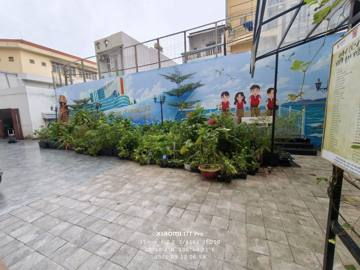
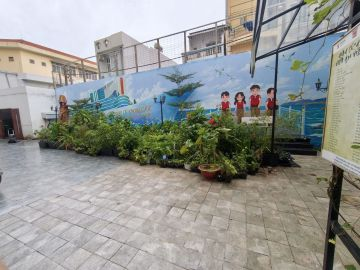
feat(gia-vien): dùng bố cục tháng 9, xoá ảnh có người, xoá dấu GPS khỏi ảnh, thêm cây tạm và nhiệm vụ
- Xoá IMG_2822.jpg (có người)
- Thư viện 11 khung và 6 trạm 2.5D dựng lại từ ảnh 12/09, 26/09 và video 30/09
- Xoá chữ dấu giờ/toạ độ GPS in chìm khỏi ảnh 3D
- Cây tạm: Sả, Sắn dây, Bạc hà, Nhóm gừng/riềng, Lưỡi hổ

Claude-Session: https://claude.ai/code/session_01QVwHjGqCf2pAUrmVus3yVm

diff --git a/public/gia-vien-duoc-thao-preview/index.html b/public/gia-vien-duoc-thao-preview/index.html
@@ -152,7 +152,7 @@ button,input,select{font:inherit}
 
     <div class="card">
       <h3>Luồng chơi đã hoàn thiện</h3>
-      <p>1) Quan sát 11 khung ảnh thật → 2) vào tuyến 10 trạm thực cảnh → 3) di chuyển theo lối đi → 4) đổi góc nhìn → 5) chạm hotspot → 6) làm nhiệm vụ định danh tạm.</p>
+      <p>1) Quan sát 11 khung ảnh thật → 2) vào tuyến 6 trạm thực cảnh → 3) di chuyển theo lối đi → 4) đổi góc nhìn → 5) chạm hotspot → 6) làm nhiệm vụ định danh tạm.</p>
       <div class="legend">
         <span><i class="dot" style="background:#d8b16c"></i>hotspot cây</span>
         <span><i class="dot" style="background:#7ccaf2"></i>vị trí người học</span>
@@ -279,69 +279,63 @@ button,input,select{font:inherit}
 
 <script>
 const photos=[
-  {id:'p-entry-main',src:'/gia-vien-duoc-thao-preview/assets/IMG_2750.jpg',title:'Góc chính diện cổng vườn',desc:'Toàn cảnh không có người: khung mái, bảng Gia Viên Dược Thảo, cụm chậu trung tâm và lối vào.',tags:['Toàn cảnh','Cổng vào','Khung mái','Bảng tên']},
-  {id:'p-right-rack',src:'/gia-vien-duoc-thao-preview/assets/IMG_2837.jpg',title:'Giá cây tường phải',desc:'Góc dọc không có người, thấy rõ giá cây nhiều tầng, chậu treo và bồn cây dưới đất.',tags:['Giá cây phải','Chậu treo','Lối đi','Mái trong']},
-  {id:'p-right-close',src:'/gia-vien-duoc-thao-preview/assets/IMG_2839.jpg',title:'Cận cảnh nhóm cây có nhãn',desc:'Cận cảnh cụm cây ở giá phải và bồn thấp; dùng làm chuẩn cho hotspot, QR và số thứ tự sau này.',tags:['Cận cảnh','Nhãn cây','Bồn thấp','Hotspot']},
-  {id:'p-narrow-lane',src:'/gia-vien-duoc-thao-preview/assets/20260517_063920.jpg',title:'Lối hẹp giữa hai cụm cây',desc:'Góc nhìn vào lối hẹp, cho thấy mật độ cây thật, bồn đen hai bên và trụ đèn ở giữa.',tags:['Lối hẹp','Mật độ cây','Bồn đen','Trụ đèn']},
-  {id:'p-hanging-qr',src:'/gia-vien-duoc-thao-preview/assets/20260517_064000.jpg',title:'Cụm chậu treo + QR',desc:'Góc cận không có người với chậu treo trắng, mã QR và cụm cây tầng thấp.',tags:['Chậu treo','QR','Cận cảnh','Tường tranh']},
-  {id:'p-end-wall',src:'/gia-vien-duoc-thao-preview/assets/20260517_064533.jpg',title:'Góc cuối vườn và tường tranh',desc:'Góc rộng không có người ở phần cuối vườn, thấy rõ nền gạch, tường tranh, khung mái và bảng danh sách.',tags:['Cuối vườn','Tường tranh','Nền gạch','Bảng danh sách']},
-  {id:'p-service-lane',src:'/gia-vien-duoc-thao-preview/assets/IMG20260606141242.jpg',title:'Lối phụ sát tường và bồn cây',desc:'Góc nhìn dọc lối phụ hẹp, cho thấy mép bồn, thảm cỏ nhân tạo và khoảng cách thật giữa cây với tường.',tags:['Lối phụ','Tỉ lệ thực','Bồn cây','Khoảng cách']},
-  {id:'p-sign-close',src:'/gia-vien-duoc-thao-preview/assets/IMG_2809.jpg',title:'Cận bảng Gia Viên Dược Thảo',desc:'Ảnh thật không có người, nhìn rõ bảng tên, mảng tường tranh và hệ chậu cây phía dưới.',tags:['Bảng tên','Mảng cây','Tường tranh','Cận cảnh']},
-  {id:'p-entry-lower',src:'/gia-vien-duoc-thao-preview/assets/IMG_2750.jpg',title:'Khung cận phần bồn dưới cổng',desc:'Tái khung từ ảnh thật để quan sát phần thấp của bồn và trục lối đi; không nội suy cảnh mới.',tags:['Ảnh thật','Khung cận','Bồn cây','Lối đi'],position:'center 72%',size:'142%'},
-  {id:'p-rack-upper',src:'/gia-vien-duoc-thao-preview/assets/IMG_2837.jpg',title:'Khung cận tầng trên giá cây',desc:'Tái khung từ ảnh thật để kiểm tra chậu treo, tầng giá và khoảng cách theo chiều cao.',tags:['Ảnh thật','Khung cận','Giá cây','Chậu treo'],position:'center 28%',size:'138%'},
-  {id:'p-qr-lower',src:'/gia-vien-duoc-thao-preview/assets/20260517_064000.jpg',title:'Khung cận QR và tầng cây thấp',desc:'Tái khung từ ảnh thật, tập trung vào QR và cụm cây tầng thấp để chuẩn bị gameplay quét/nhấn.',tags:['Ảnh thật','Khung cận','QR','Tầng thấp'],position:'center 74%',size:'145%'}
+  {id:'p-0930-front',src:'/gia-vien-duoc-thao-preview/assets/2026-09-30-gian.jpg',title:'Giàn chính diện · 30/09/2026',desc:'Khung hình mới nhất, không có người: giàn mái trong, bảng Gia Viên Dược Thảo, bảng danh sách cây, giàn trồng đứng và tường tranh phong cảnh.',tags:['30/09','Giàn chính','Tường tranh','Bảng tên']},
+  {id:'p-0930-left',src:'/gia-vien-duoc-thao-preview/assets/2026-09-30-trai.jpg',title:'Góc trái sân · đèn trụ và tranh biển',desc:'Nhìn từ giữa sân sang trái: cụm cây tầng thấp, đèn trụ và mảng tranh biển của tường.',tags:['30/09','Bên trái','Đèn trụ','Tranh biển']},
+  {id:'p-0930-right',src:'/gia-vien-duoc-thao-preview/assets/2026-09-30-phai.jpg',title:'Góc phải sân · hàng bồn và ghế đá',desc:'Nhìn sang phải: chậu đỏ, hàng bồn đen dọc hàng rào, đèn trụ thứ hai và ghế đá cuối sân.',tags:['30/09','Bên phải','Bồn đen','Ghế đá']},
+  {id:'p-0912-wide',src:'/gia-vien-duoc-thao-preview/assets/2026-09-12-toan-dai.jpg',title:'Toàn dải vườn từ đầu sân · 12/09',desc:'Đứng ở cuối sân gạch nhìn dọc dải cây chạy theo tường; cho thấy tỉ lệ thật giữa sân, giàn và tường tranh.',tags:['12/09','Toàn cảnh','Sân gạch','Tường tranh']},
+  {id:'p-0926-front',src:'/gia-vien-duoc-thao-preview/assets/2026-09-26-truoc-tuong.jpg',title:'Trước tường tranh phong cảnh · 26/09',desc:'Góc rộng về phía giàn và tường tranh, thấy hàng bồn đen và các chậu cây dọc tường.',tags:['26/09','Tường tranh','Hàng bồn','Góc rộng']},
+  {id:'p-0926-wall',src:'/gia-vien-duoc-thao-preview/assets/2026-09-26-doc-tuong.jpg',title:'Dọc tường về phía góc tranh thứ hai · 26/09',desc:'Nhìn dọc hàng bồn sát tường; cây lá vằn ở góc phải khung hình.',tags:['26/09','Dọc tường','Hàng bồn','Lối đi']},
+  {id:'p-sign',src:'/gia-vien-duoc-thao-preview/assets/2026-09-30-gian.jpg',title:'Cận bảng tên và chậu treo',desc:'Tái khung từ ảnh thật 30/09: bảng Gia Viên Dược Thảo và hai chậu treo trắng.',tags:['Ảnh thật','Khung cận','Bảng tên','Chậu treo'],position:'26% 0%',size:'200%'},
+  {id:'p-list',src:'/gia-vien-duoc-thao-preview/assets/2026-09-30-gian.jpg',title:'Cận bảng danh sách cây',desc:'Tái khung từ ảnh thật 30/09: bảng danh sách cây đặt cạnh giàn, nơi sẽ gắn số thứ tự chính thức.',tags:['Ảnh thật','Khung cận','Danh sách','Số thứ tự'],position:'70% 30%',size:'200%'},
+  {id:'p-vertical',src:'/gia-vien-duoc-thao-preview/assets/2026-09-30-gian.jpg',title:'Cận giàn trồng đứng và nhãn số',desc:'Tái khung từ ảnh thật 30/09: các ô chậu nhỏ treo trên giàn lưới và nhãn số xanh.',tags:['Ảnh thật','Khung cận','Giàn đứng','Nhãn số'],position:'16% 40%',size:'200%'},
+  {id:'p-right-pots',src:'/gia-vien-duoc-thao-preview/assets/2026-09-30-gian.jpg',title:'Cận cụm chậu bên phải và đèn trụ',desc:'Tái khung từ ảnh thật 30/09: chậu đỏ, chậu đen và các bụi cây cao cạnh đèn trụ.',tags:['Ảnh thật','Khung cận','Chậu đỏ','Đèn trụ'],position:'100% 74%',size:'200%'},
+  {id:'p-striped',src:'/gia-vien-duoc-thao-preview/assets/2026-09-26-doc-tuong.jpg',title:'Cận cây lá vằn ở góc phải',desc:'Tái khung từ ảnh thật 26/09: lá dày có vằn ngang, mọc thẳng trong bồn đen.',tags:['Ảnh thật','Khung cận','Lá vằn','Bồn đen'],position:'100% 100%',size:'220%'}
 ];
 
 const plants=[
-  {
-    id:'plant-sả', code:'Tạm 01', name:'Sả', latin:'Cymbopogon citratus (tạm)', confidence:0.72, scene:7,
-    title:'Khóm lá dài hẹp mọc thành bụi',
-    why:'Định danh tạm theo hình dạng lá dải hẹp mọc thành bụi. Chưa gắn QR/số chính thức.',
-    hint:'Tìm cụm lá dài, hẹp, mọc chụm từ gốc ở bồn thấp gần lối đi.', status:'Trung bình'
-  },
-  {
-    id:'plant-ngaicuu', code:'Tạm 02', name:'Ngải cứu', latin:'Artemisia vulgaris (tạm)', confidence:0.82, scene:3,
-    title:'Cây có nhãn “Ngải cứu” ở tầng giữa',
-    why:'Trong ảnh cận cảnh có thể đọc được nhãn “Ngải cứu”; hình lá xẻ thùy cũng phù hợp. Đây vẫn là định danh tạm.',
-    hint:'Tìm nhãn treo có chữ “Ngải cứu” ở dãy giá phải, tầm mắt người xem.', status:'Cao'
-  },
-  {
-    id:'plant-raumeo', code:'Tạm 03', name:'Râu mèo', latin:'Orthosiphon aristatus (tạm)', confidence:0.84, scene:3,
-    title:'Cây có nhãn “Râu mèo”',
-    why:'Nhãn “Râu mèo” hiện khá rõ ở ảnh giá cây bên phải; dùng để thử cơ chế định danh trước khi gắn danh mục chuẩn.',
-    hint:'Quan sát nhãn chữ “Râu mèo” ở phía phải của giá cây.', status:'Cao'
-  },
-  {
-    id:'plant-zing', code:'Tạm 04', name:'Nhóm gừng/riềng (chưa chốt)', latin:'Zingiberaceae sp. (tạm)', confidence:0.45, scene:8,
-    title:'Cụm cây lá lớn hình mác trong bồn',
-    why:'Hiện chỉ định danh tới mức nhóm họ Gừng do dạng lá và cách mọc bụi. Chưa đủ dữ liệu để chốt gừng, nghệ hay riềng.',
-    hint:'Tìm cụm lá lớn mọc thành khóm ở bồn gần lối đi.', status:'Thấp'
-  }
+  {id:'plant-sa', code:'Tạm 01', name:'Sả', latin:'Cymbopogon citratus (tạm)', confidence:0.6, scene:3,
+    title:'Bụi lá dài hẹp trong chậu đỏ',
+    why:'Định danh tạm theo dạng bụi lá dài, hẹp, mọc thẳng từ gốc. Thông tin để tìm hiểu: sả là cây thân thảo thơm, thường dùng làm gia vị và lấy tinh dầu. Chưa gắn số/QR chính thức.',
+    hint:'Tìm bụi lá dài hẹp cao nhất trong chậu đỏ ở phía phải sân.', status:'Trung bình'},
+  {id:'plant-sandays', code:'Tạm 02', name:'Sắn dây', latin:'Pueraria montana var. lobata (tạm)', confidence:0.5, scene:2,
+    title:'Dây leo lá lớn trên khung giàn',
+    why:'Định danh tạm theo dây leo lá lớn bám trên khung giàn phía trên bảng danh sách; thư mục mã QR của vườn có tên Sắn dây. Thông tin để tìm hiểu: sắn dây là cây leo, củ dùng làm bột. Cần đối chiếu QR để chốt.',
+    hint:'Nhìn lên khung giàn, tìm dây leo lá lớn phía trên bảng danh sách cây.', status:'Trung bình'},
+  {id:'plant-bacha', code:'Tạm 03', name:'Bạc hà', latin:'Mentha sp. (tạm)', confidence:0.35, scene:3,
+    title:'Bụi cây lá nhỏ thân mềm tầng thấp',
+    why:'Thư mục mã QR của vườn có tên Bạc hà nhưng chưa xác định chắc vị trí trong ảnh; đây là vị trí đoán theo dạng bụi lá nhỏ thân mềm ở tầng thấp. Thông tin để tìm hiểu: bạc hà có mùi mát đặc trưng từ tinh dầu. Cần quét QR tại vườn để chốt.',
+    hint:'Tìm bụi lá nhỏ, thân mềm, mọc dày ở tầng thấp gần lối đi.', status:'Thấp'},
+  {id:'plant-zing', code:'Tạm 04', name:'Nhóm gừng/riềng (chưa chốt)', latin:'Zingiberaceae sp. (tạm)', confidence:0.4, scene:2,
+    title:'Khóm lá mác lớn trong chậu cam',
+    why:'Chỉ định danh tới mức nhóm họ Gừng theo dạng lá mác lớn mọc khóm. Chưa đủ dữ liệu để chốt gừng, nghệ hay riềng.',
+    hint:'Tìm khóm lá mác lớn, mọc từ một chậu cam ở bên trái lối đi.', status:'Thấp'},
+  {id:'plant-luoiho', code:'Tạm 05', name:'Lưỡi hổ', latin:'Dracaena trifasciata (tạm)', confidence:0.85, scene:5,
+    title:'Lá dày có vằn ngang ở góc phải',
+    why:'Lá dày, mọc thẳng, có vằn ngang xanh đậm — đặc điểm điển hình của lưỡi hổ. Thông tin để tìm hiểu: cây chịu bóng và chịu khô tốt, thường trồng trang trí. Chưa gắn số/QR chính thức.',
+    hint:'Nhìn góc phải ảnh dọc tường, tìm các lá dày có vằn ngang.', status:'Cao'}
 ];
 
 const quests=[
-  {id:'q1',title:'Tìm cây có lá dài hẹp mọc thành bụi',desc:'Mục tiêu: chọn đúng cây tạm định danh là sả.',plantId:'plant-sả'},
-  {id:'q2',title:'Tìm cây có nhãn “Ngải cứu”',desc:'Mục tiêu: đọc nhãn và chọn đúng vị trí cây ngải cứu ở giá phải.',plantId:'plant-ngaicuu'},
-  {id:'q3',title:'Tìm cây có nhãn “Râu mèo”',desc:'Mục tiêu: xác định đúng vị trí cây râu mèo ở mảng giá cây bên phải.',plantId:'plant-raumeo'}
+  {id:'q1',title:'Tìm cây lá dài hẹp trong chậu đỏ',desc:'Mục tiêu: chọn đúng vị trí cây tạm định danh là sả ở phía phải sân.',plantId:'plant-sa'},
+  {id:'q2',title:'Tìm dây leo trên khung giàn',desc:'Mục tiêu: chọn đúng dây leo lá lớn (tạm: sắn dây) phía trên bảng danh sách.',plantId:'plant-sandays'},
+  {id:'q3',title:'Tìm cây lá vằn ở góc phải',desc:'Mục tiêu: chọn đúng cây lá dày có vằn ngang (tạm: lưỡi hổ) trong ảnh dọc tường.',plantId:'plant-luoiho'},
+  {id:'q4',title:'Tìm khóm lá mác lớn',desc:'Mục tiêu: chọn đúng khóm lá mác lớn (nhóm gừng/riềng, chưa chốt) ở bên trái lối đi.',plantId:'plant-zing'},
+  {id:'q5',title:'Tìm bụi lá nhỏ tầng thấp',desc:'Mục tiêu: thử đoán vị trí cây tạm là bạc hà; cần quét QR tại vườn để chốt.',plantId:'plant-bacha'}
 ];
 
 const scenes=[
-  {id:0,name:'Trạm 1 · Cổng vườn',desc:'Mốc tổng thể của khung mái, bảng tên và trục lối đi.',photo:'/gia-vien-duoc-thao-preview/assets/IMG_2750.jpg',fit:'cover',hotspots:[]},
-  {id:1,name:'Trạm 2 · Cận bảng tên',desc:'Nhìn rõ bảng Gia Viên Dược Thảo và mảng cây phía dưới.',photo:'/gia-vien-duoc-thao-preview/assets/IMG_2809.jpg',fit:'contain',hotspots:[]},
-  {id:2,name:'Trạm 3 · Giá cây tường phải',desc:'Quan sát cấu trúc giá nhiều tầng, chậu treo và lối đi.',photo:'/gia-vien-duoc-thao-preview/assets/IMG_2837.jpg',fit:'contain',hotspots:[]},
-  {id:3,name:'Trạm 4 · Cận nhãn cây',desc:'Điểm đọc nhãn tạm Ngải cứu và Râu mèo.',photo:'/gia-vien-duoc-thao-preview/assets/IMG_2839.jpg',fit:'contain',hotspots:[
-    {plantId:'plant-ngaicuu',x:.53,y:.47},{plantId:'plant-raumeo',x:.70,y:.36}
+  {id:0,name:'Trạm 1 · Đầu sân nhìn toàn dải',desc:'Mốc tổng thể: sân gạch, hàng cây chạy dọc tường và giàn ở xa.',photo:'/gia-vien-duoc-thao-preview/assets/2026-09-12-toan-dai.jpg',fit:'contain',hotspots:[]},
+  {id:1,name:'Trạm 2 · Trái sân',desc:'Cụm cây tầng thấp, đèn trụ và mảng tranh biển.',photo:'/gia-vien-duoc-thao-preview/assets/2026-09-30-trai.jpg',fit:'contain',hotspots:[]},
+  {id:2,name:'Trạm 3 · Giàn chính diện',desc:'Giàn mái trong, bảng danh sách, dây leo trên khung và khóm lá lớn bên trái.',photo:'/gia-vien-duoc-thao-preview/assets/2026-09-30-gian.jpg',fit:'contain',hotspots:[
+    {plantId:'plant-sandays',x:.578,y:.19},{plantId:'plant-zing',x:.30,y:.60}
   ]},
-  {id:4,name:'Trạm 5 · Lối hẹp giữa bồn',desc:'Kiểm tra bề rộng lối, mật độ cây và tầm mắt.',photo:'/gia-vien-duoc-thao-preview/assets/20260517_063920.jpg',fit:'cover',hotspots:[]},
-  {id:5,name:'Trạm 6 · Chậu treo và QR',desc:'Điểm thử tương tác QR/hotspot ở mảng chậu treo.',photo:'/gia-vien-duoc-thao-preview/assets/20260517_064000.jpg',fit:'cover',hotspots:[]},
-  {id:6,name:'Trạm 7 · Lối phụ sát tường',desc:'Theo mép bồn để kiểm tra khoảng cách đi bộ thực tế.',photo:'/gia-vien-duoc-thao-preview/assets/IMG20260606141242.jpg',fit:'cover',hotspots:[]},
-  {id:7,name:'Trạm 8 · Khung cận bồn dưới cổng',desc:'Tái khung ảnh thật để nhìn sâu vào tầng cây thấp.',photo:'/gia-vien-duoc-thao-preview/assets/IMG_2750.jpg',fit:'cover',zoom:1.18,focusY:.68,hotspots:[
-    {plantId:'plant-sả',x:.68,y:.67}
+  {id:3,name:'Trạm 4 · Phải sân',desc:'Chậu đỏ, hàng bồn đen, đèn trụ và ghế đá cuối sân.',photo:'/gia-vien-duoc-thao-preview/assets/2026-09-30-phai.jpg',fit:'contain',hotspots:[
+    {plantId:'plant-sa',x:.665,y:.60},{plantId:'plant-bacha',x:.07,y:.80}
   ]},
-  {id:8,name:'Trạm 9 · Mảng cây và giá bên phải',desc:'Tái khung ảnh thật để rà nhóm cây lá lớn và cấu trúc giá.',photo:'/gia-vien-duoc-thao-preview/assets/IMG_2837.jpg',fit:'cover',zoom:1.12,focusY:.58,hotspots:[
-    {plantId:'plant-zing',x:.34,y:.61}
-  ]},
-  {id:9,name:'Trạm 10 · Cuối vườn',desc:'Kết thúc tuyến ở tường tranh và bảng danh sách.',photo:'/gia-vien-duoc-thao-preview/assets/20260517_064533.jpg',fit:'cover',hotspots:[]}
+  {id:4,name:'Trạm 5 · Trước tường tranh',desc:'Góc rộng về phía giàn và tường tranh phong cảnh.',photo:'/gia-vien-duoc-thao-preview/assets/2026-09-26-truoc-tuong.jpg',fit:'contain',hotspots:[]},
+  {id:5,name:'Trạm 6 · Dọc tường',desc:'Đi dọc hàng bồn sát tường; cây lá vằn ở góc phải.',photo:'/gia-vien-duoc-thao-preview/assets/2026-09-26-doc-tuong.jpg',fit:'contain',hotspots:[
+    {plantId:'plant-luoiho',x:.93,y:.78}
+  ]}
 ];
 
 let mode='photo';
@@ -529,7 +523,7 @@ function setMode(next){
     mainSub.textContent='Giữ đúng cảnh quan thật để làm chuẩn cho mô phỏng và gắn QR/số cây về sau.';
     statusText.textContent='Đang ở chế độ ảnh thật';
   } else {
-    mainTitle.textContent='Khám phá thực cảnh · 10 trạm và hotspot cây';
+    mainTitle.textContent='Khám phá thực cảnh · 6 trạm và hotspot cây';
     mainSub.textContent='Mỗi trạm dùng ảnh thật không có người làm nền; lớp 2.5D chỉ đảm nhiệm camera, hotspot, nhiệm vụ và điều hướng.';
     statusText.textContent='Đang ở chế độ khám phá thực cảnh';
     drawScene();
